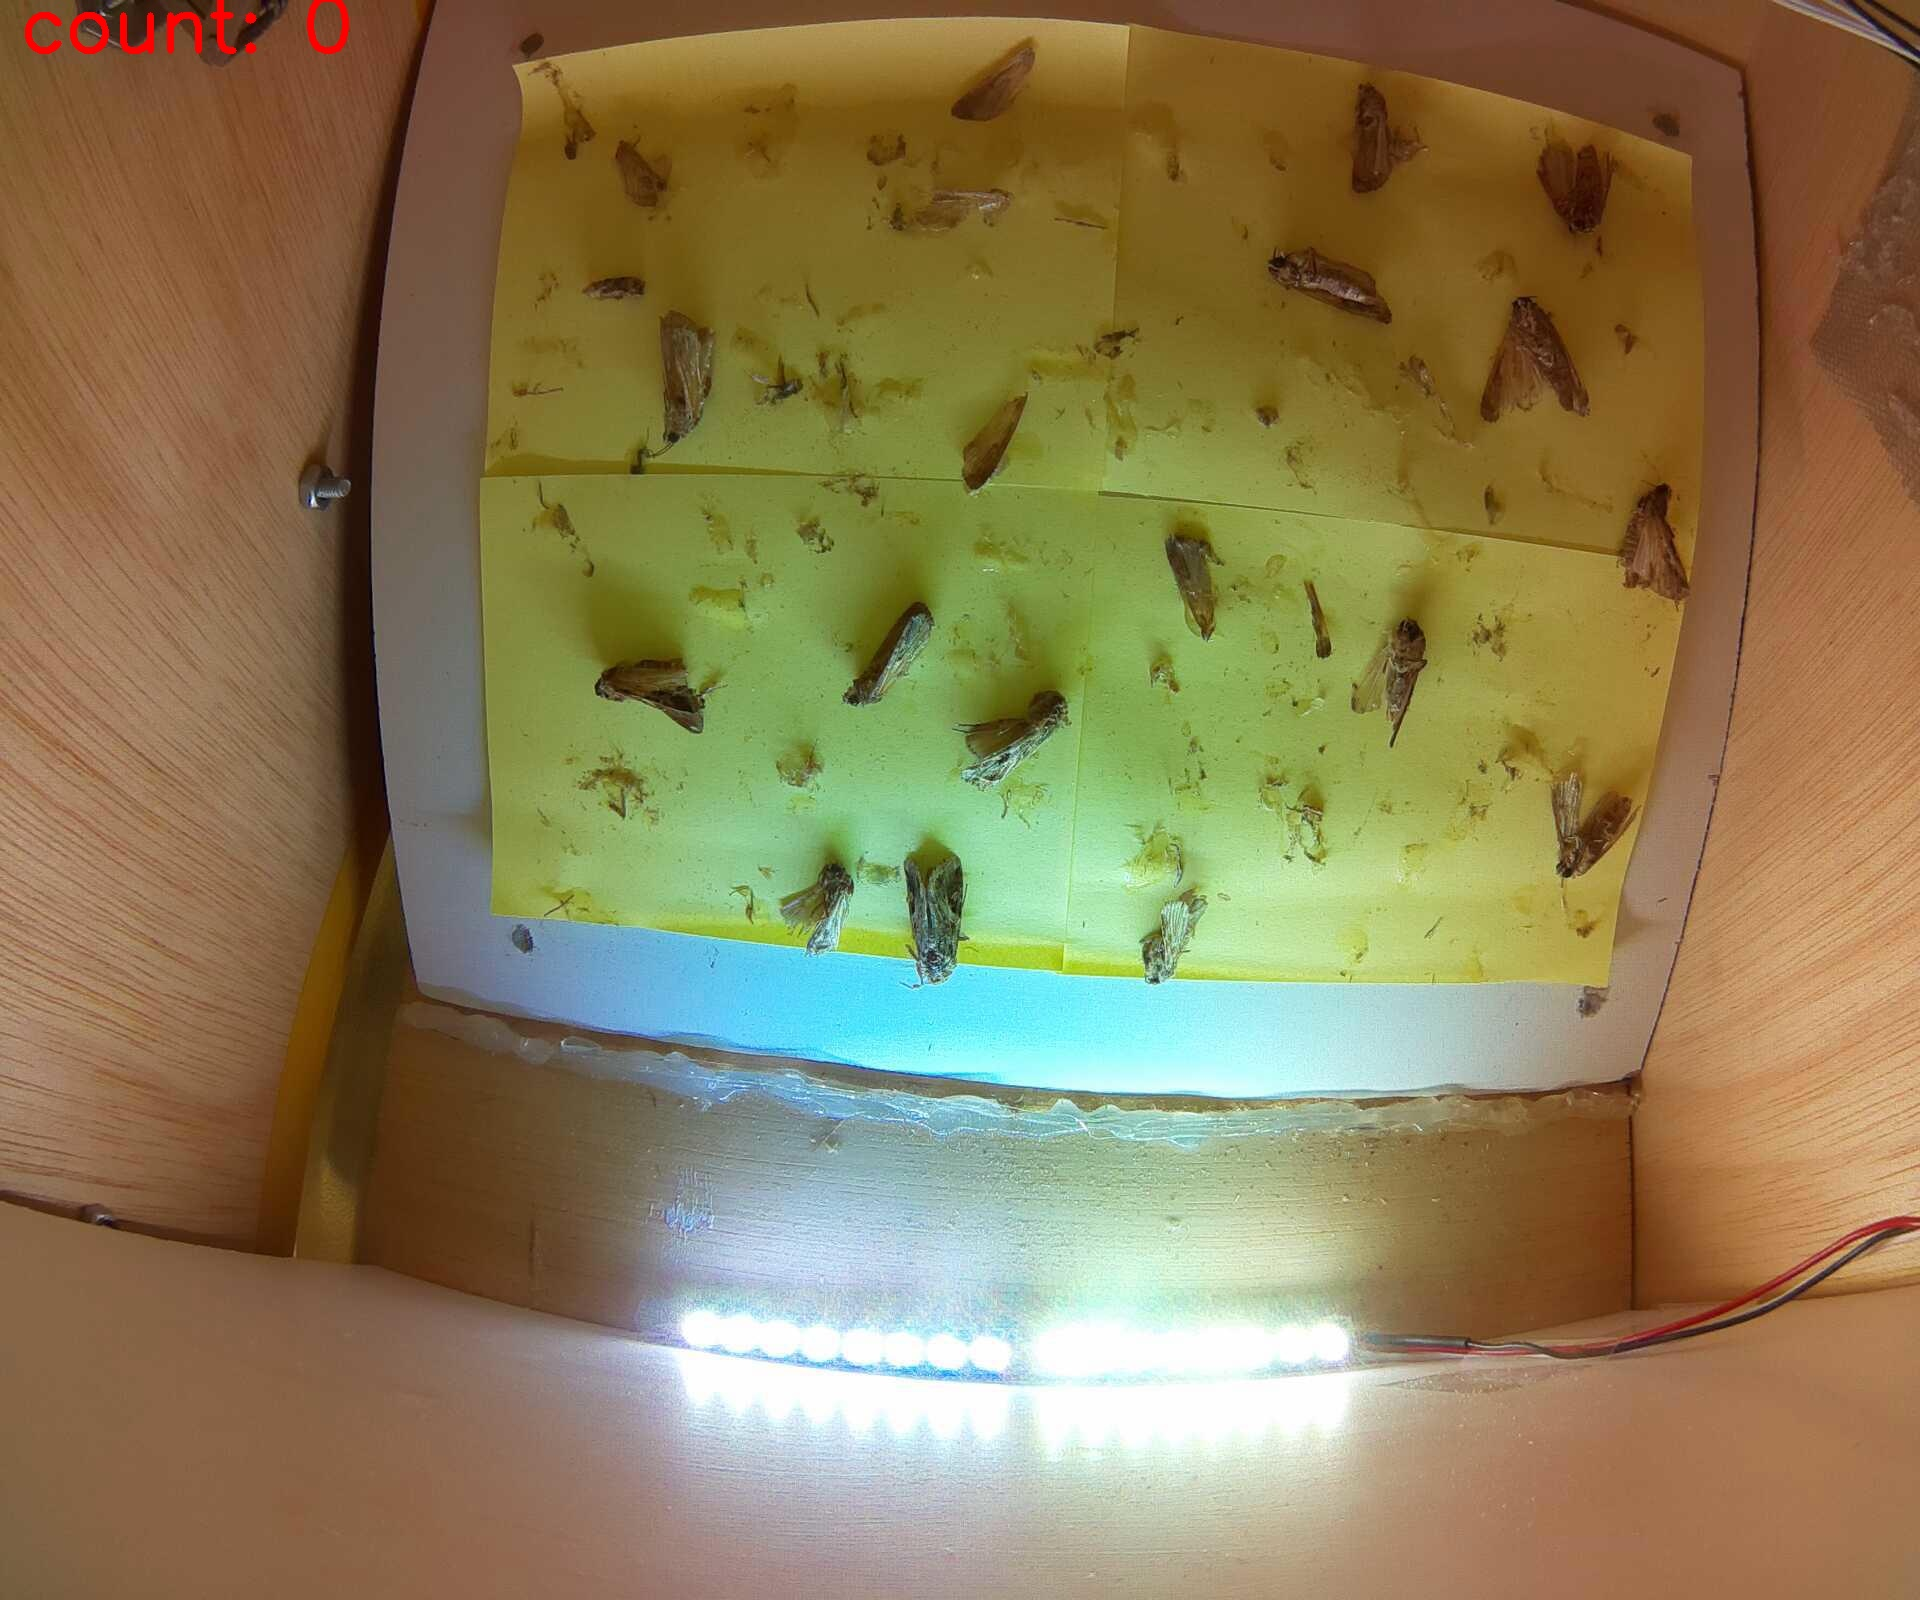
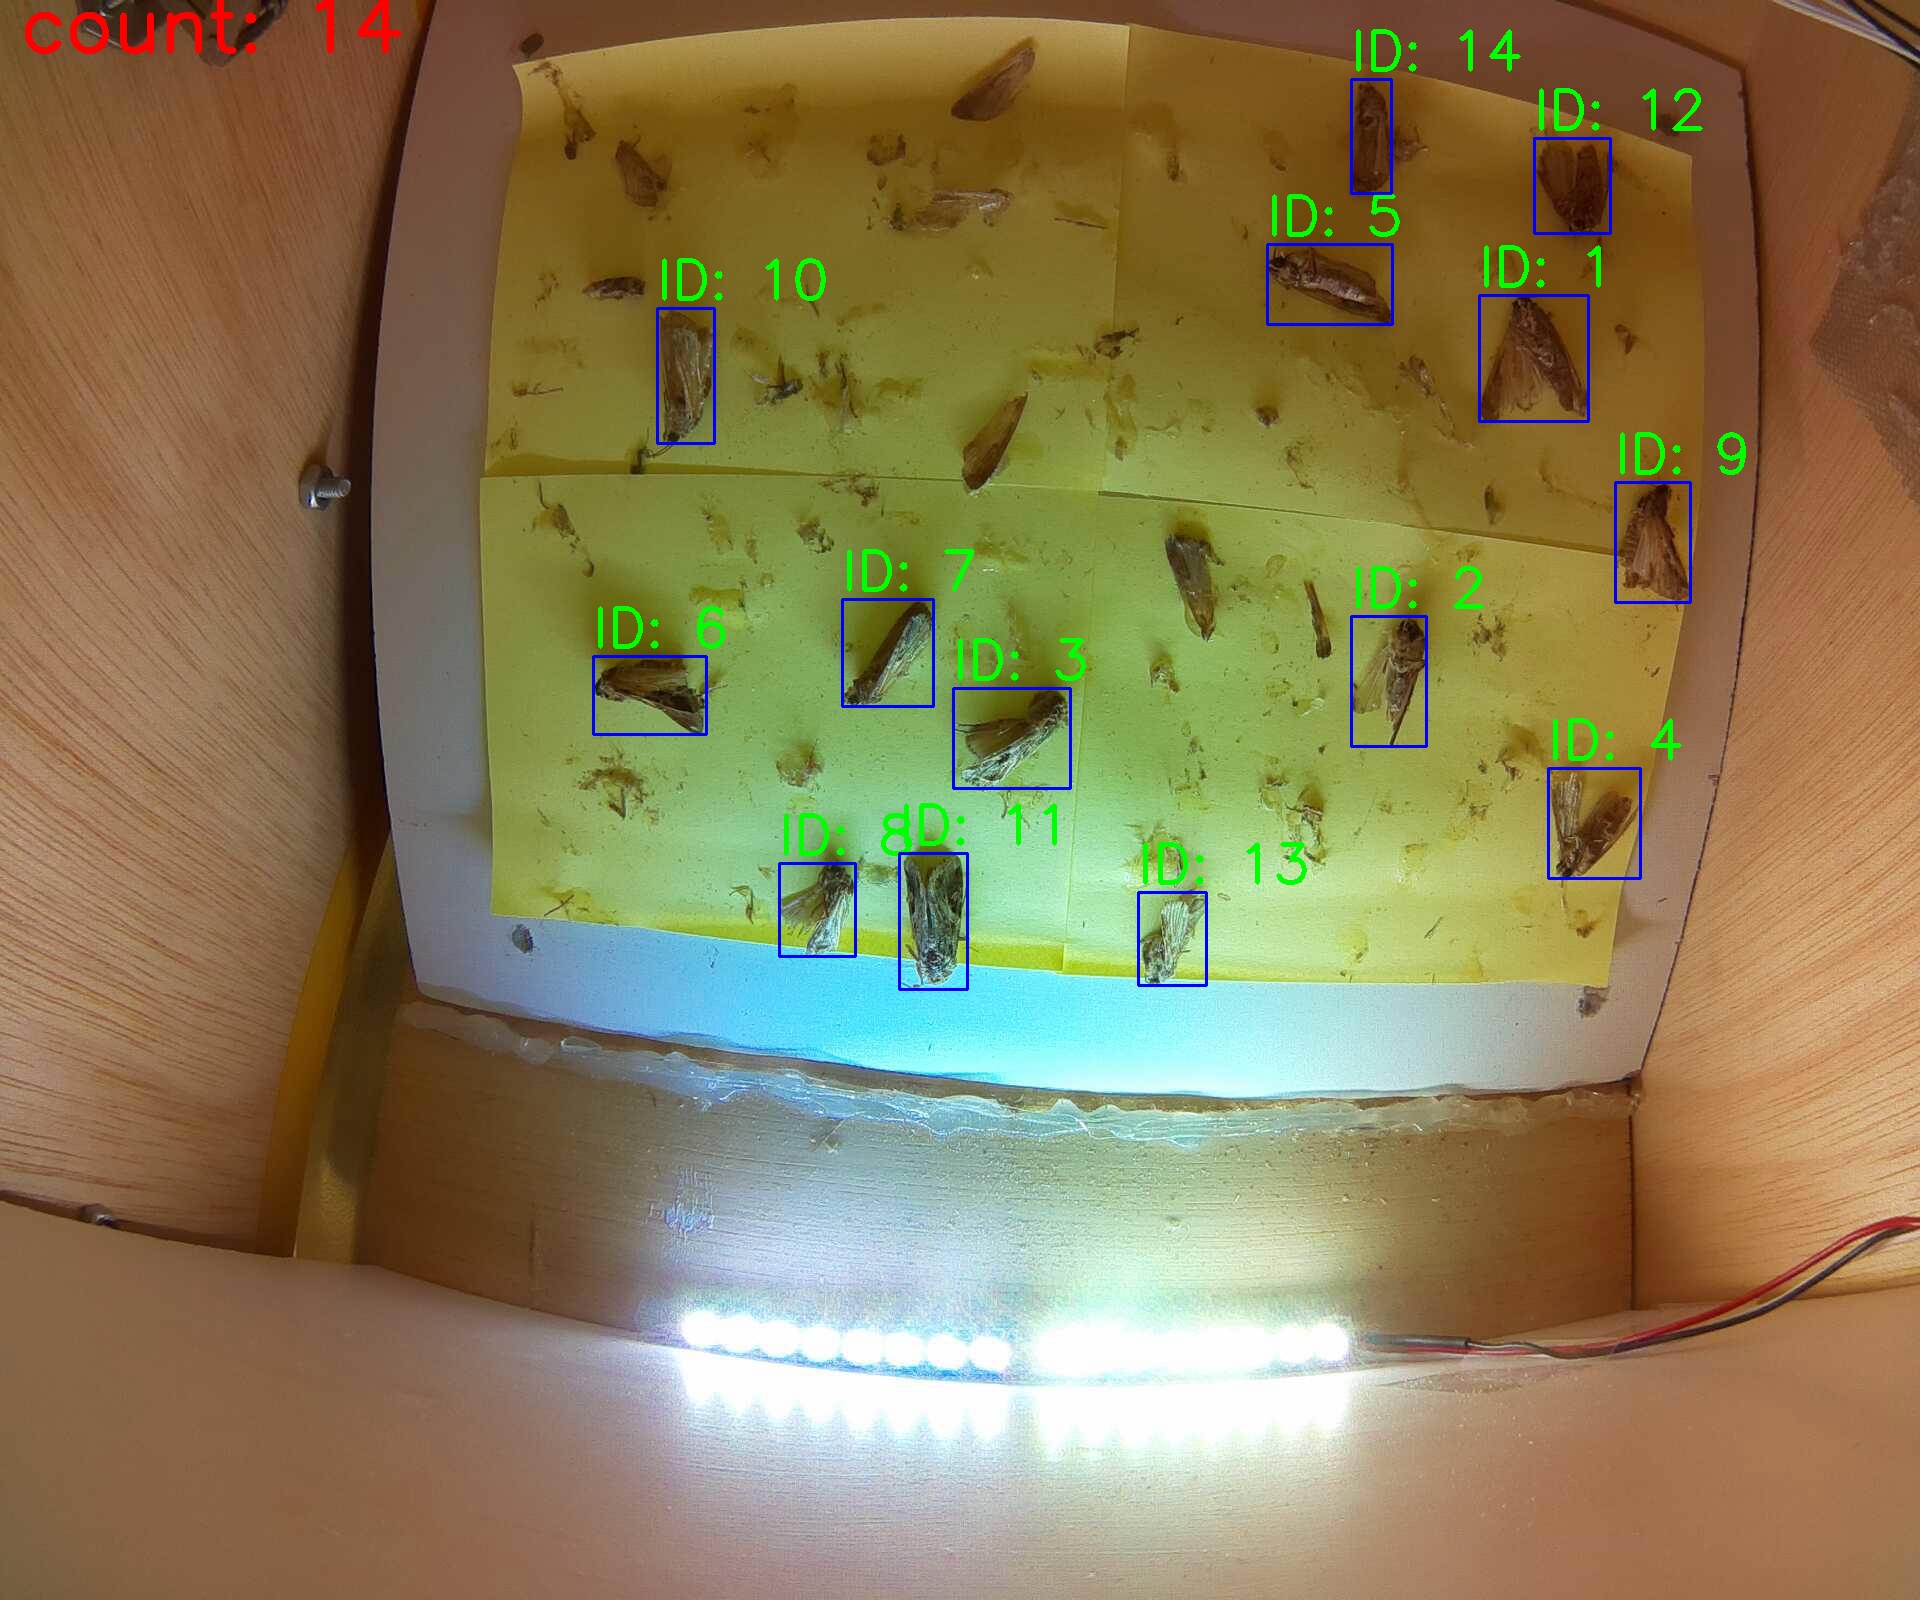
0506

diff --git a/templates/material.html b/templates/material.html
@@ -124,9 +124,6 @@
         <label>請輸入其他農作物：</label>
         <input type="text" id="cropOther">
       </div>
-<<<<<<< HEAD
-  
-=======
             <!-- 工作事項 -->
             <label>工作事項：</label>
             <div class="checkbox-group" id="crop-group">
@@ -159,7 +156,6 @@
               <input type="text" id="itemsOther">
             </div>
 
->>>>>>> 7723c8e0c833fa905ac92d2c4cf9a09cce4d0a73
       <!-- 病蟲害防治資材 -->
       <label>病蟲害防治資材：</label>
       <div class="checkbox-group" id="material-group">
